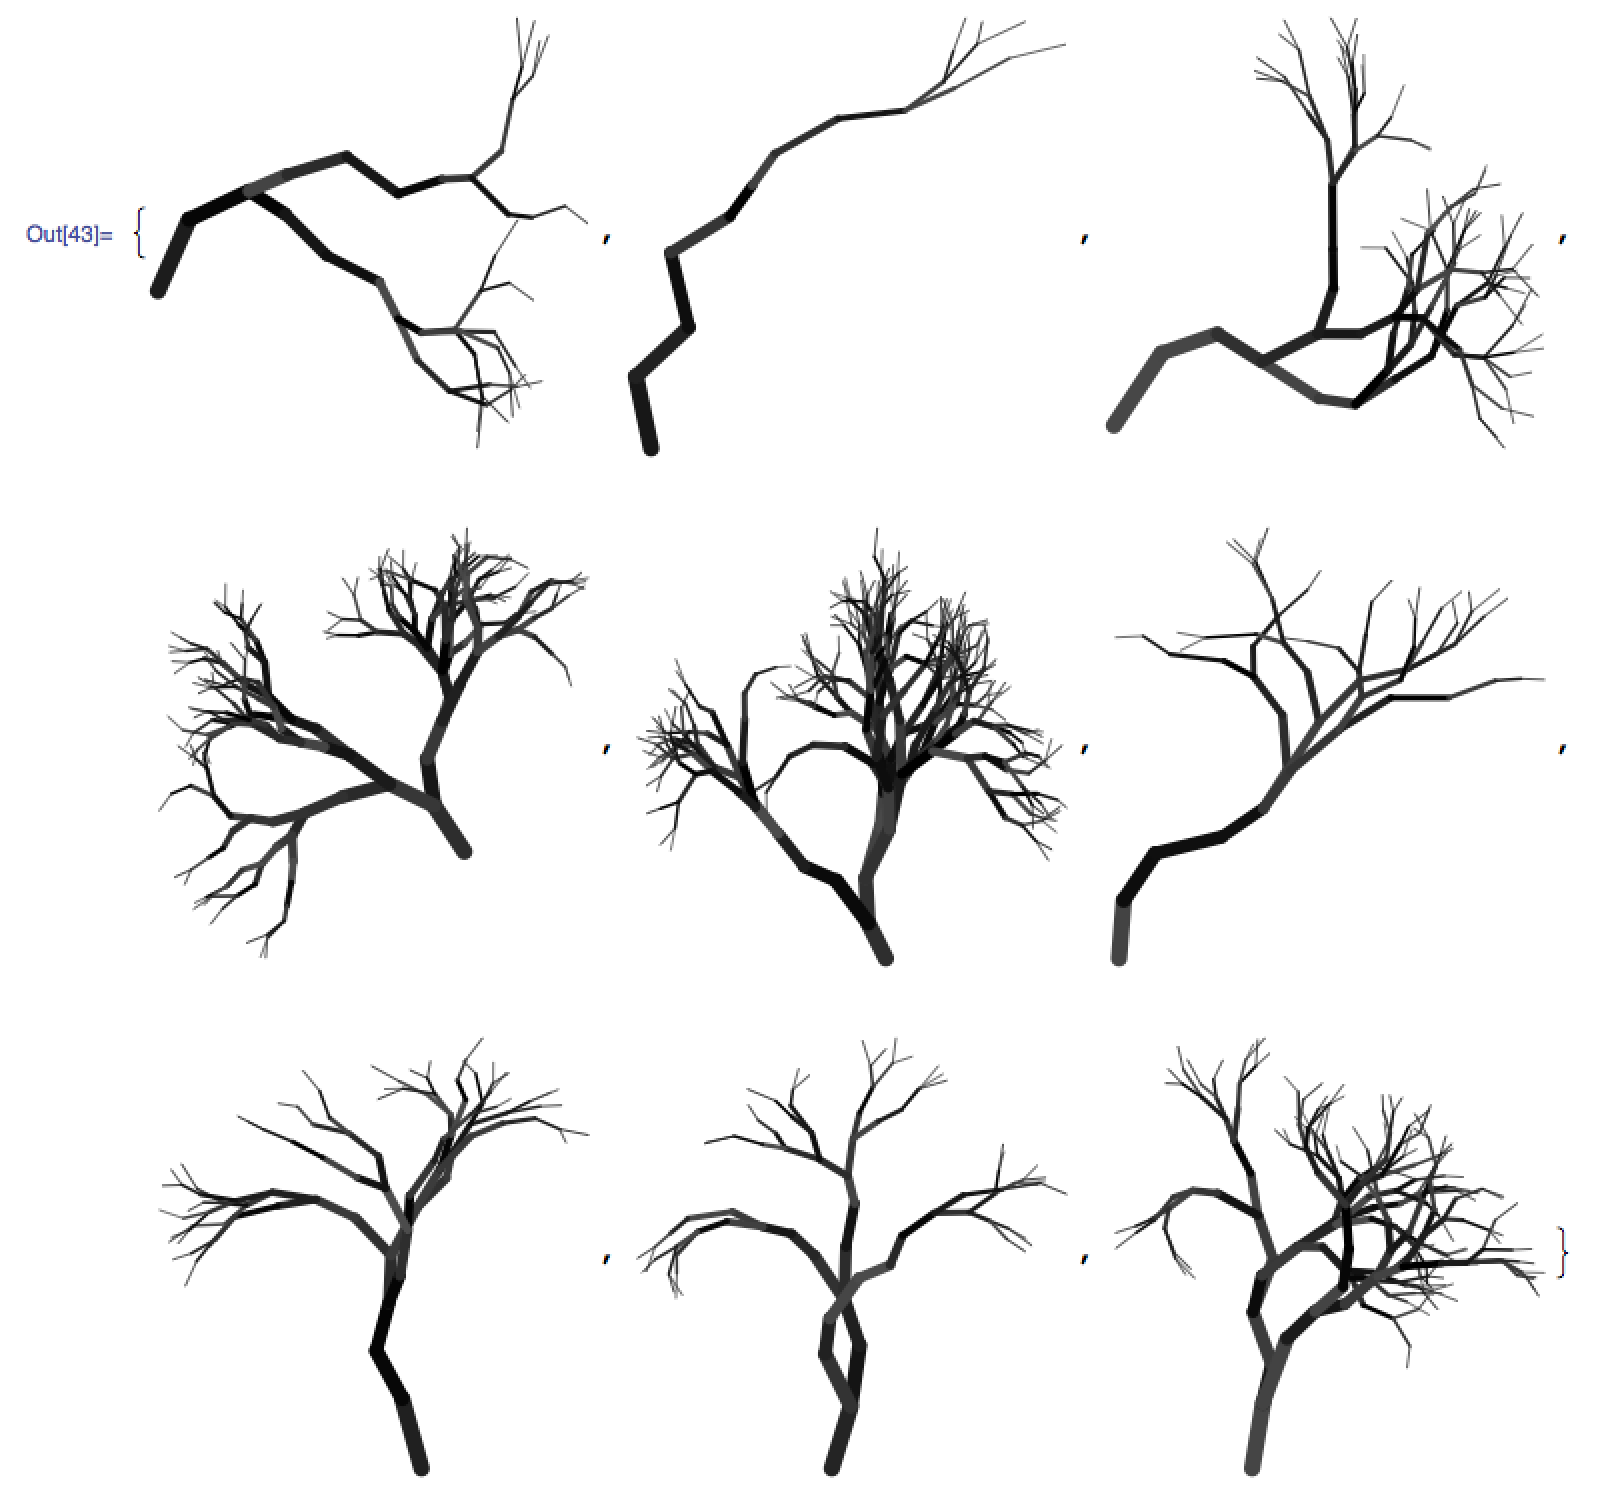
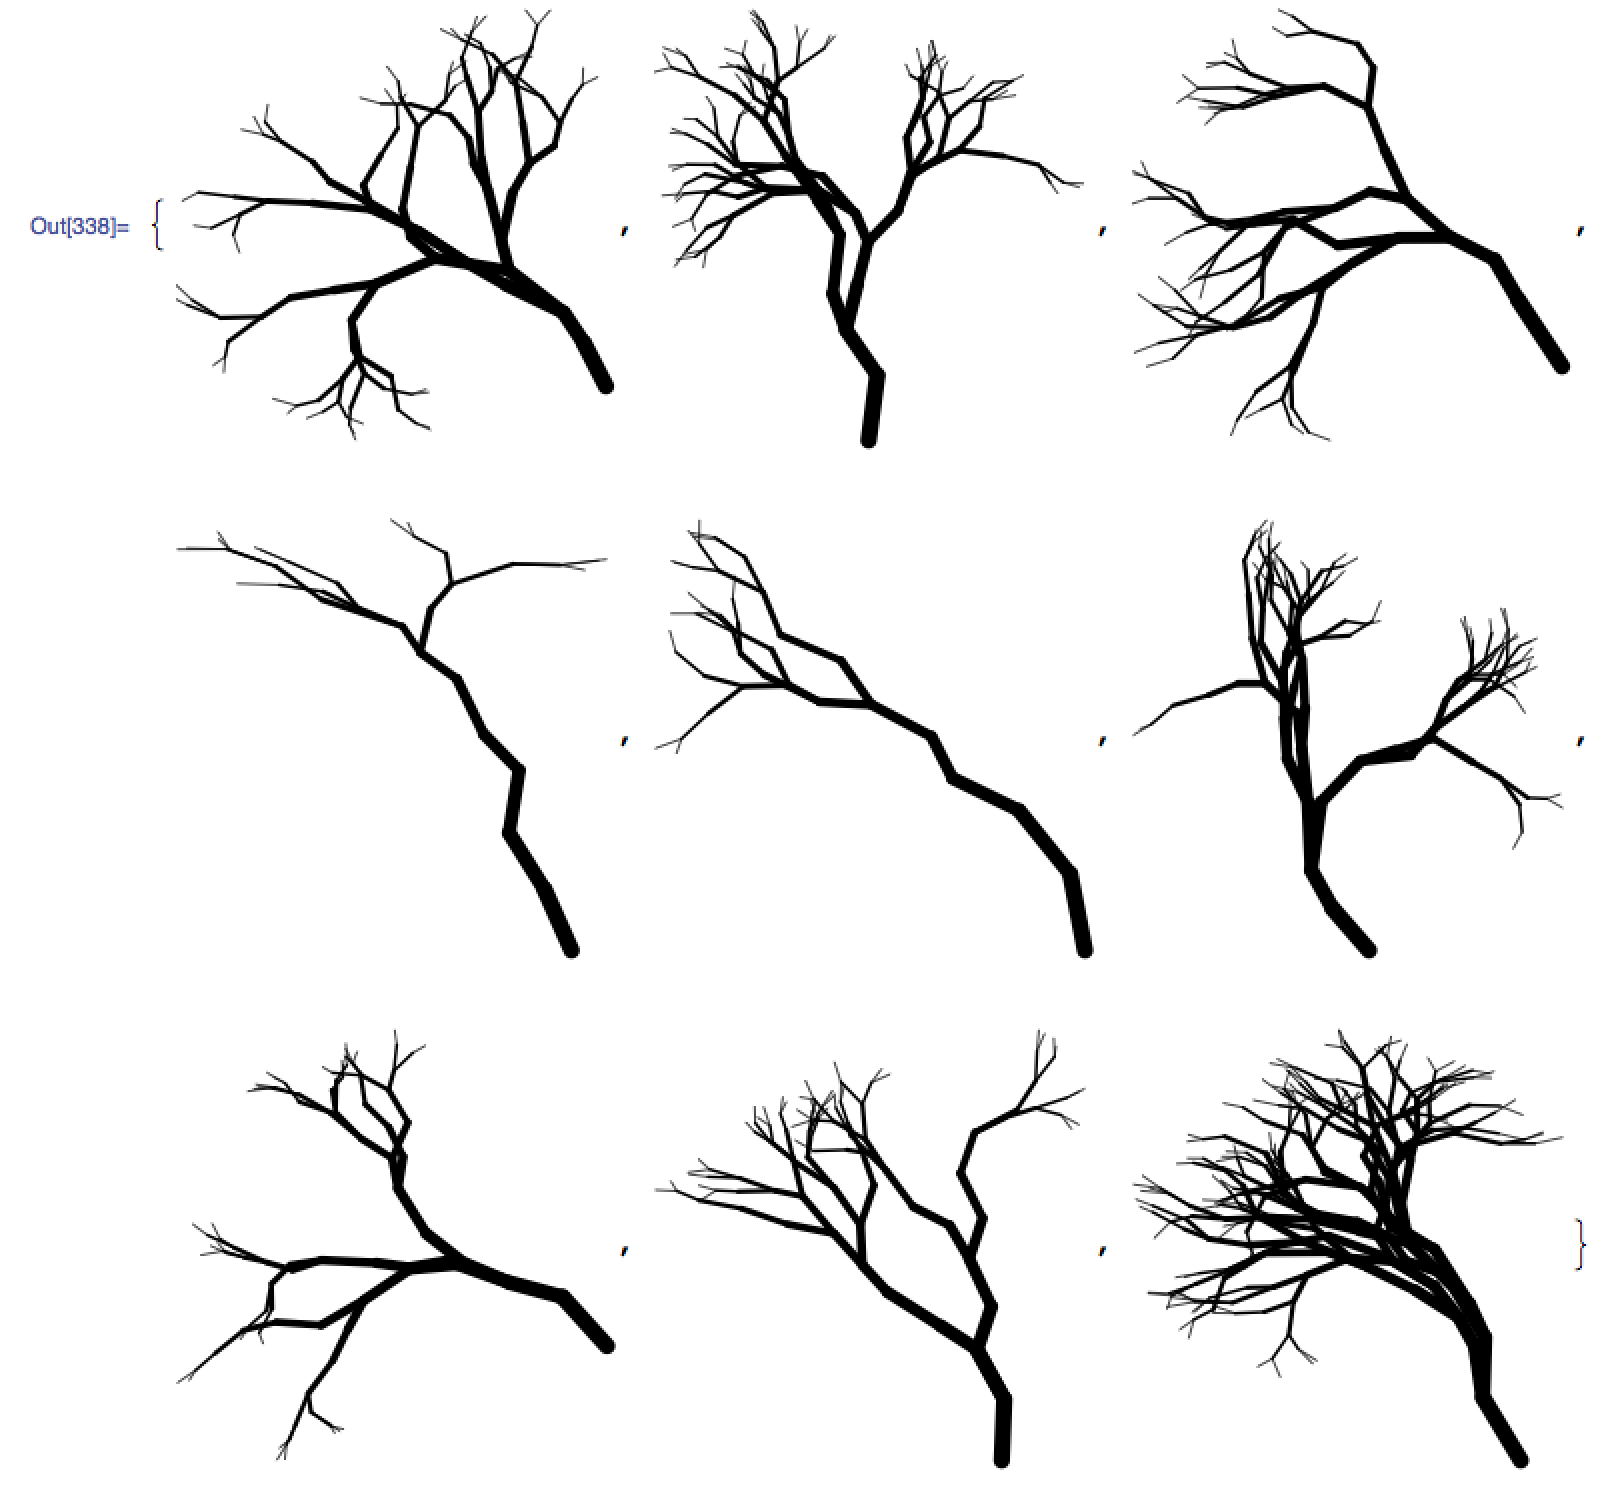
sqrt() looks better than log()

diff --git a/README.md b/README.md
@@ -39,7 +39,7 @@ branches[x0_, y0_, maximumDepth_, maximumNfurcation_, maximumDeviation_, initial
     (* Angle of the branch *)
     angle = lean + deviation*Random[Real, {-.5, .5}];
     (* Length of the branch *)
-    r = Log[depth]*Random[Real, {.5, 1}];
+    r = Sqrt[depth]*Random[Real, {.5, 1}];
     
     (* Number of branches *)
     nfurcation = RandomInteger[{1, Nfurcation}];
